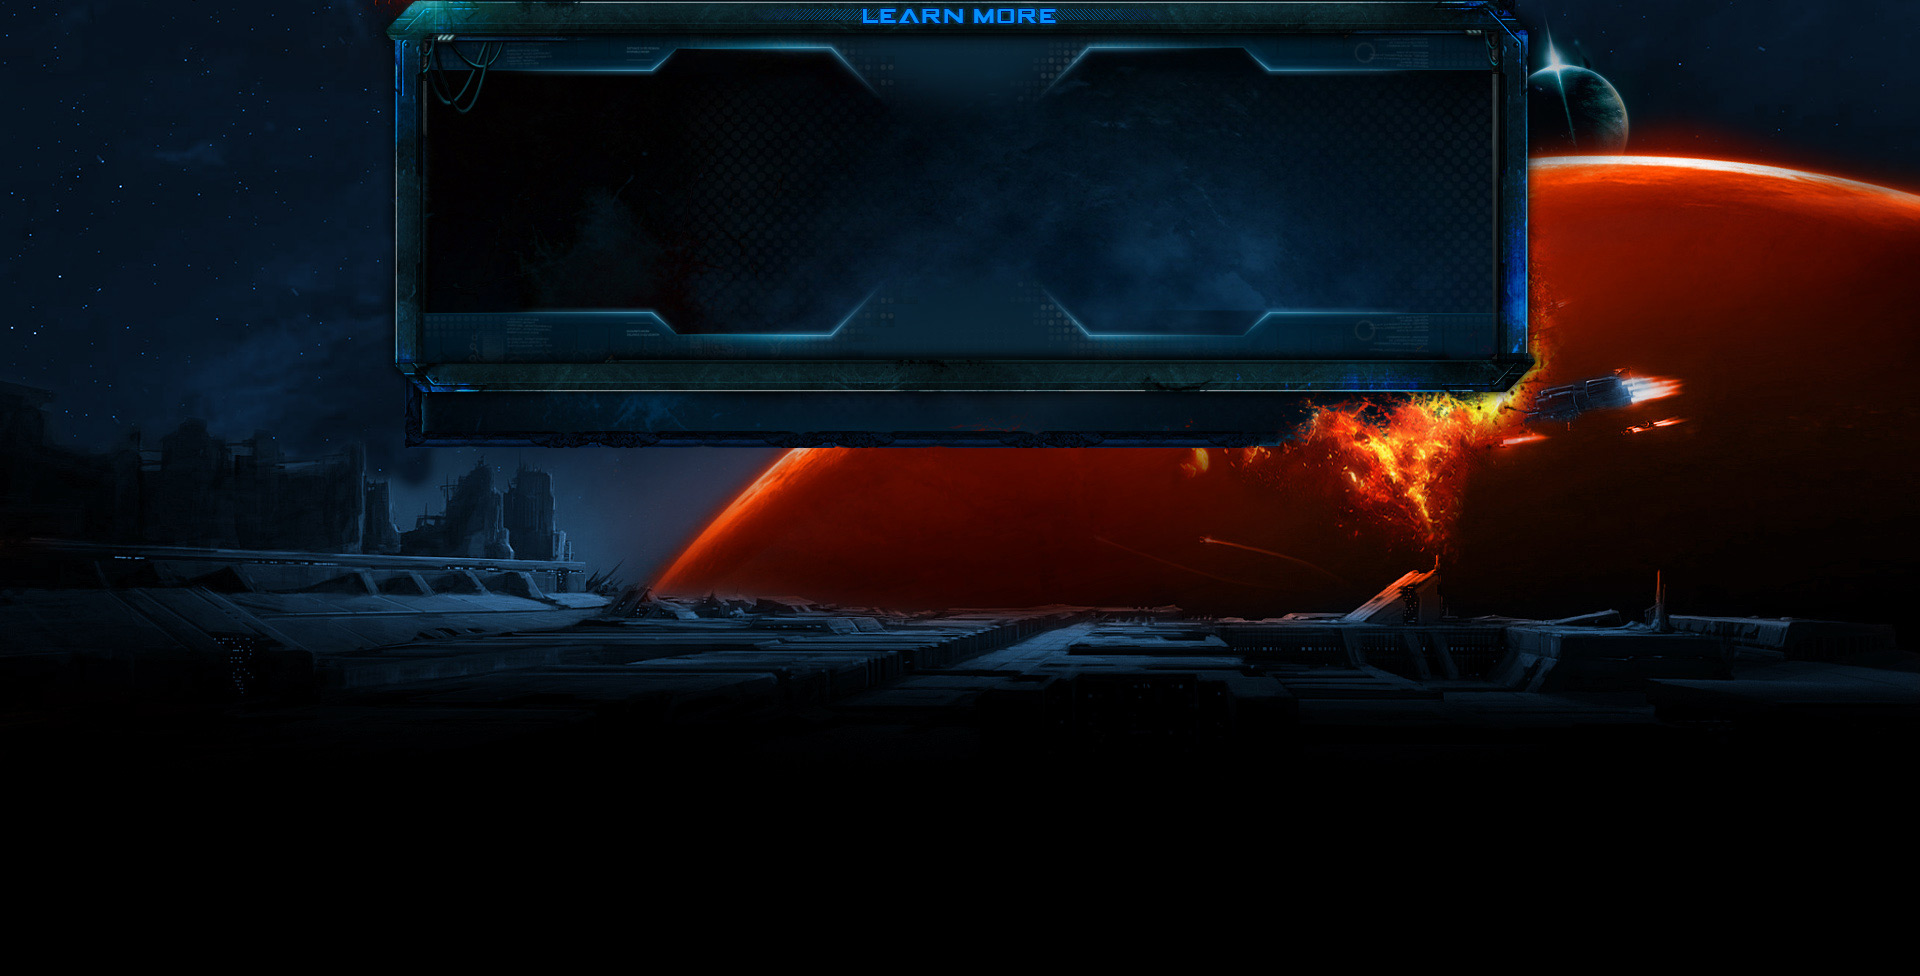
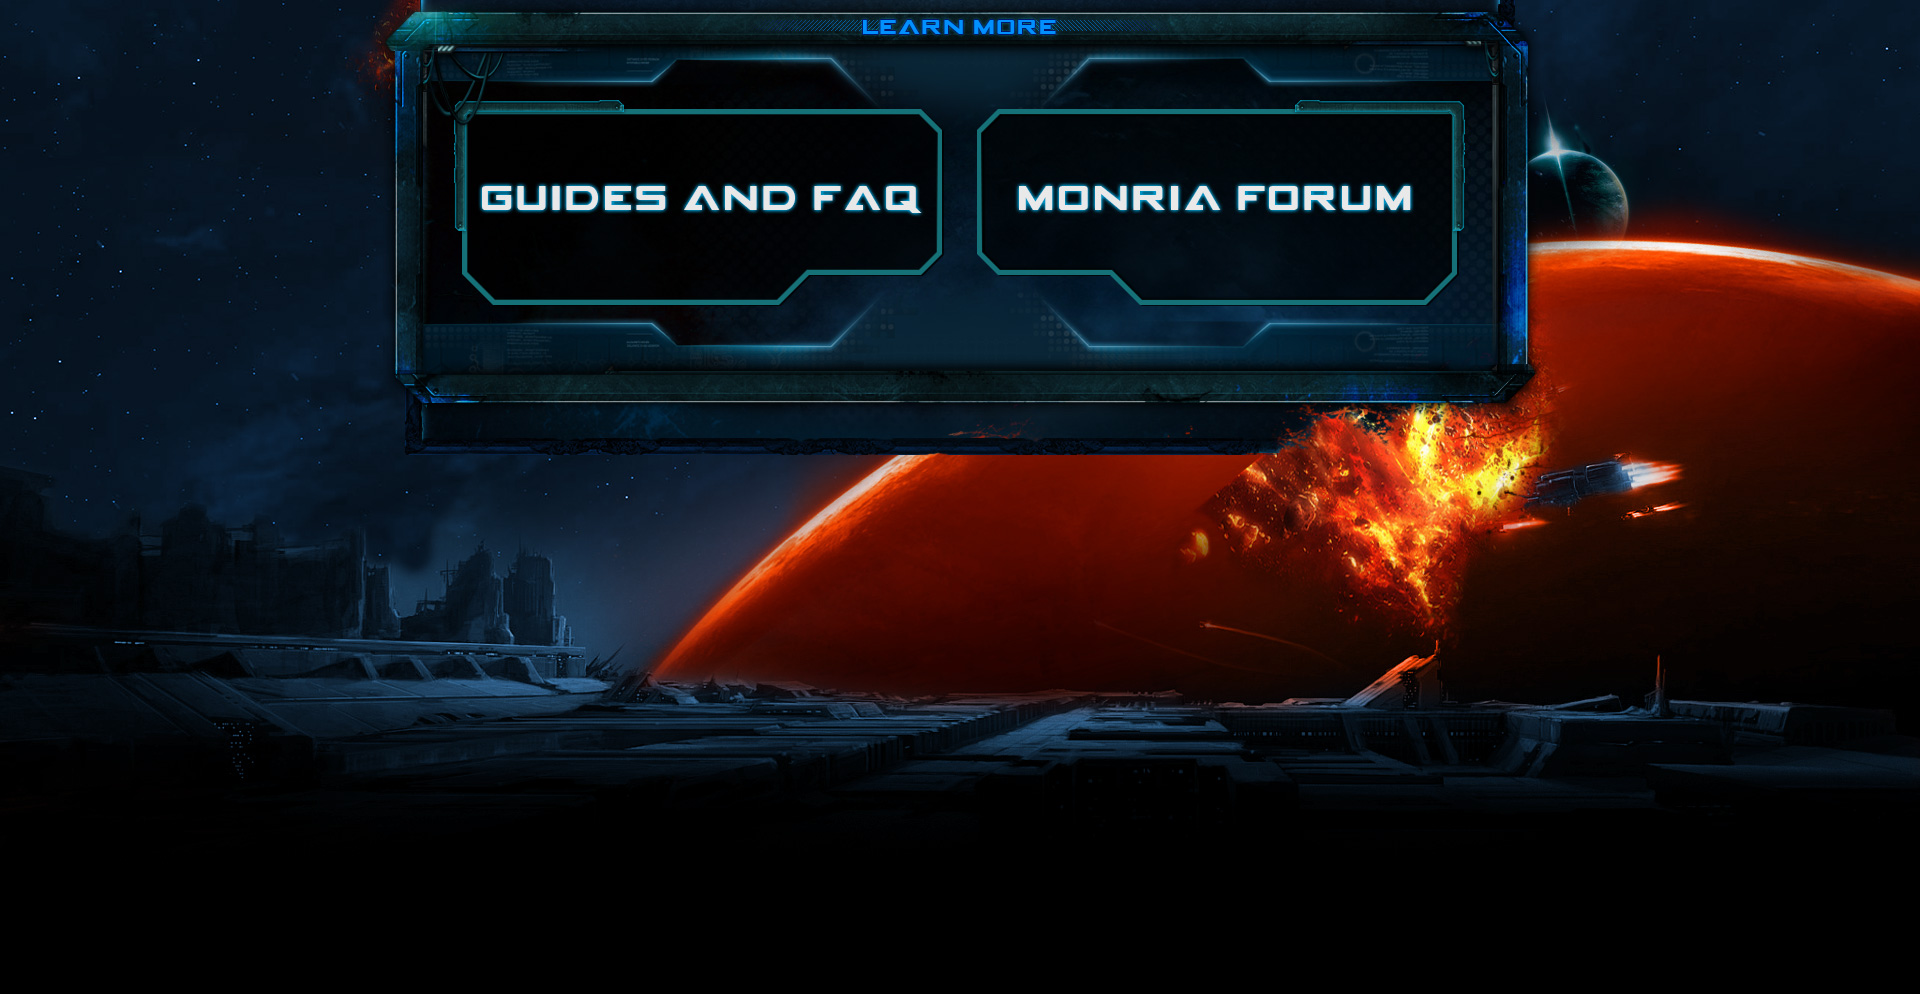
background reposition

diff --git a/html/css/style.css b/html/css/style.css
@@ -20,7 +20,7 @@ body {
 .bg2 {
     position: absolute;
     width: 100%;
-    height: 1372px;
+    height: 1268px;
     background: transparent url(../img/bg/bg_midle.jpg) no-repeat scroll center top;
     z-index: 1;
     top:653px;
@@ -32,7 +32,7 @@ body {
     height: 976px;
     background: transparent url(../img/bg/bg_footer.jpg) no-repeat scroll center top;
     z-index: 1;
-    top:2025px;
+    top:1921px;
 }
 
 
@@ -171,7 +171,7 @@ width:100%;
     left: 50%;
     margin-left: -499px;
     position: absolute;
-    top: 830px;
+    top: 755px;
     width: 998px;
     z-index: 50;
 }
@@ -229,7 +229,7 @@ width:100%;
     height: 210px;
     left: 17px;
     position: absolute;
-    top: 90px;
+    top: 67px;
     width: 494px;
 }
 
@@ -245,7 +245,7 @@ width:100%;
     height: 210px;
     right: 17px;
     position: absolute;
-    top: 90px;
+    top: 67px;
     width: 494px;
 }
 

diff --git a/html/index.html b/html/index.html
@@ -71,7 +71,7 @@
         <div class="reposition monria">
             <h1>Monria</h1>
 
-            <div class="news_title"></div>
+
             <div class="news_content">
                 <div class="news_block">
                     <div class="img_wrapper">
